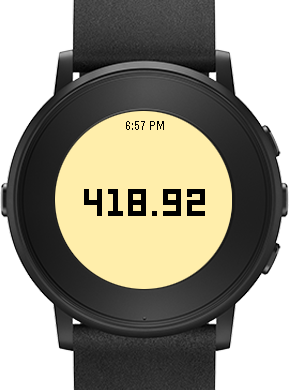
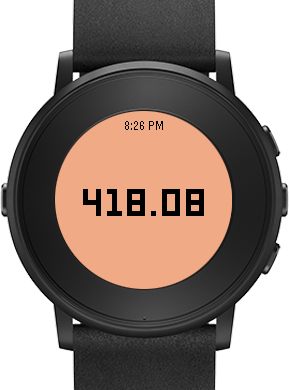
Use orange background color to better match BTC.

Changed region(s): [[0.1869, 0.2769, 0.8097, 0.7385]]

diff --git a/src/bitcoin-price.c b/src/bitcoin-price.c
@@ -82,7 +82,7 @@ static void window_unload(Window *window) {
 
 static void init() {
     s_main_window = window_create();
-    background_color = GColorYellow;
+    background_color = GColorChromeYellow;
     foreground_color = GColorBlack;
 
     window_set_background_color(s_main_window, background_color);
